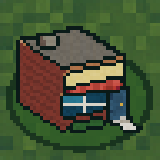
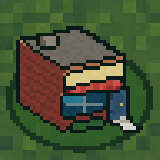
feat(studio): residential building set — three Asset Studio houses
Adds two new house scenes (house2.py, house3.py) alongside the existing
house.py prototype, giving zoned residential tiles three studio-rendered
`rich-pixel-48` variants (res-house-5/6/7.png) in addition to the four
legacy sprites already in rotation.

Also fixes a stylizer bug the second window exposed: `stylize.mjs`'s
window-sash stamp used one bounding box across every window-role cell in
the scene, so a building with two separate windows (house3) got a single
cross straddling both instead of one per window. The sash is now computed
per connected component, inset from each pane's own edges, and blended
toward the glass colour instead of a stark contrasting hue so it reads as
a muntin bar rather than a flag graphic.

Changed region(s): [[0.375, 0.5938, 0.6562, 0.7188]]

diff --git a/app/src/rendering/tileAtlas.ts b/app/src/rendering/tileAtlas.ts
@@ -106,7 +106,11 @@ const residentialHouseTexturePaths = [
   assetPath('assets/tiles/buildings/res-house-1.png'),
   assetPath('assets/tiles/buildings/res-house-2.png'),
   assetPath('assets/tiles/buildings/res-house-3.png'),
-  assetPath('assets/tiles/buildings/res-house-4.png')
+  assetPath('assets/tiles/buildings/res-house-4.png'),
+  // Asset Studio (rich-pixel-48) houses — studio/scenes/house.py, house2.py, house3.py.
+  assetPath('assets/tiles/buildings/res-house-5.png'),
+  assetPath('assets/tiles/buildings/res-house-6.png'),
+  assetPath('assets/tiles/buildings/res-house-7.png')
 ];
 
 const commercialBuildingTexturePaths = [

diff --git a/studio/scenes/house3.py b/studio/scenes/house3.py
@@ -1,0 +1,101 @@
+# Scene: narrow two-storey colonial — third residential variant. Taller and
+# narrower than house.py/house2.py, with a stacked window-over-window front
+# (reads as two storeys) instead of a single gable window.
+#
+# (c) Copyright 2026 Liminal HQ, Scott Morris
+# SPDX-License-Identifier: MIT
+
+import bpy
+
+from studiolib import box, face_box
+
+WALL_W, WALL_D, WALL_H = 1.7, 1.5, 1.35
+ROOF_H = 0.95
+ROOF_OVERHANG_EAVE = 0.075
+ROOF_OVERHANG_RAKE = 0.14
+WIN_W, WIN_H = 0.36, 0.38
+DOOR_W, DOOR_H = 0.38, 0.6
+CHIM_SIZE, CHIM_H = 0.24, 0.85
+
+ROTATION_DEG = 75
+FOCUS_Z = (WALL_H + ROOF_H) * 0.46
+
+
+def build(mats):
+    # Wall box.
+    box(mats, 'wall', (0, 0, WALL_H / 2), (WALL_W, WALL_D, WALL_H))
+
+    # Gable roof volume: two slope quads (roof) + two gable-end triangles
+    # (wall), one mesh, two material slots.
+    rx = WALL_W / 2 + ROOF_OVERHANG_RAKE
+    half_depth = WALL_D / 2
+    pitch = ROOF_H / half_depth
+    ry = half_depth + ROOF_OVERHANG_EAVE
+    eave_z = WALL_H - pitch * ROOF_OVERHANG_EAVE
+    ridge_z = WALL_H + ROOF_H
+
+    verts = [
+        (-rx, -ry, eave_z), (rx, -ry, eave_z),
+        (rx, ry, eave_z), (-rx, ry, eave_z),
+        (-rx, 0, ridge_z), (rx, 0, ridge_z),
+        (-WALL_W / 2, -WALL_D / 2, WALL_H), (-WALL_W / 2, WALL_D / 2, WALL_H),
+        (WALL_W / 2, -WALL_D / 2, WALL_H), (WALL_W / 2, WALL_D / 2, WALL_H),
+        (-WALL_W / 2, 0, ridge_z), (WALL_W / 2, 0, ridge_z),
+    ]
+    faces = [
+        (0, 1, 5, 4),    # -Y slope
+        (2, 3, 4, 5),    # +Y slope
+        (6, 7, 10),      # -X gable cap
+        (9, 8, 11),      # +X gable cap
+    ]
+    roof_mesh = bpy.data.meshes.new('roof_mesh')
+    roof_mesh.from_pydata(verts, [], faces)
+    roof_mesh.update()
+    roof_obj = bpy.data.objects.new('roof', roof_mesh)
+    bpy.context.collection.objects.link(roof_obj)
+    roof_obj.data.materials.append(mats['roof'])
+    roof_obj.data.materials.append(mats['wall'])
+    for poly in roof_obj.data.polygons:
+        poly.material_index = 0 if len(poly.vertices) == 4 else 1
+
+    # Chimney centred on the ridge, tall — narrow massing reads better with a
+    # centred stack than an offset one.
+    chim_x, chim_y = 0.0, 0.0
+    box(mats, 'chimney', (chim_x, chim_y, ridge_z + CHIM_H / 2 - 0.08),
+        (CHIM_SIZE, CHIM_SIZE, CHIM_H))
+
+    fx = WALL_W / 2
+
+    # Upper-storey window in the gable end.
+    win_z_hi = WALL_H + 0.14
+    face_box(mats, 'trim', fx, 0, win_z_hi, WIN_W + 0.14, WIN_H + 0.14, 0.02, 0.04)
+    face_box(mats, 'window', fx, 0, win_z_hi, WIN_W, WIN_H, 0.05)
+    face_box(mats, 'mullion', fx, 0, win_z_hi, WIN_W, 0.05, 0.065)
+    face_box(mats, 'mullion', fx, 0, win_z_hi, 0.05, WIN_H, 0.065)
+
+    # Ground-storey window beside the door.
+    win_z_lo = WALL_H * 0.42
+    win_y_lo = -0.42
+    face_box(mats, 'trim', fx, win_y_lo, win_z_lo, WIN_W + 0.14, WIN_H + 0.14, 0.02, 0.04)
+    face_box(mats, 'window', fx, win_y_lo, win_z_lo, WIN_W, WIN_H, 0.05)
+    face_box(mats, 'mullion', fx, win_y_lo, win_z_lo, WIN_W, 0.05, 0.065)
+    face_box(mats, 'mullion', fx, win_y_lo, win_z_lo, 0.05, WIN_H, 0.065)
+
+    door_y = 0.35
+    face_box(mats, 'trim', fx, door_y, DOOR_H / 2 + 0.04, DOOR_W + 0.16, DOOR_H + 0.08, 0.02, 0.04)
+    face_box(mats, 'door', fx, door_y, DOOR_H / 2, DOOR_W, DOOR_H, 0.05)
+    face_box(mats, 'knob', fx, door_y - DOOR_W / 2 + 0.06, DOOR_H * 0.5, 0.06, 0.06, 0.065)
+
+    # Stone step under the door.
+    box(mats, 'step', (fx + 0.14, door_y, 0.035), (0.22, DOOR_W + 0.14, 0.07))
+
+    # Bush at the wall junction corner.
+    bpy.ops.mesh.primitive_ico_sphere_add(
+        subdivisions=2, radius=0.3, location=(fx + 0.16, -WALL_D / 2 - 0.05, 0.19))
+    bush = bpy.context.object
+    bush.scale = (1.0, 1.0, 0.8)
+    bush.data.materials.append(mats['bush'])
+
+    # Walkway from the door.
+    walkway_len = 0.7
+    box(mats, 'walkway', (fx + walkway_len / 2, door_y, 0.008), (walkway_len, DOOR_W, 0.016))

diff --git a/studio/scenes/house2.py b/studio/scenes/house2.py
@@ -1,0 +1,96 @@
+# Scene: wide single-storey bungalow — second residential variant, alongside
+# house.py. Lower, wider massing with a shallower roof pitch and a single
+# large picture window (contrast against house.py's steep gable + small
+# upper window).
+#
+# (c) Copyright 2026 Liminal HQ, Scott Morris
+# SPDX-License-Identifier: MIT
+
+import bpy
+
+from studiolib import box, face_box
+
+WALL_W, WALL_D, WALL_H = 2.2, 1.7, 0.85
+ROOF_H = 0.85
+ROOF_OVERHANG_EAVE = 0.075
+ROOF_OVERHANG_RAKE = 0.15
+WIN_W, WIN_H = 0.62, 0.42
+DOOR_W, DOOR_H = 0.4, 0.62
+CHIM_SIZE, CHIM_H = 0.22, 0.62
+
+ROTATION_DEG = 75
+FOCUS_Z = (WALL_H + ROOF_H) * 0.42
+
+
+def build(mats):
+    # Wall box.
+    box(mats, 'wall', (0, 0, WALL_H / 2), (WALL_W, WALL_D, WALL_H))
+
+    # Gable roof volume: two slope quads (roof) + two gable-end triangles
+    # (wall), one mesh, two material slots.
+    rx = WALL_W / 2 + ROOF_OVERHANG_RAKE
+    half_depth = WALL_D / 2
+    pitch = ROOF_H / half_depth
+    ry = half_depth + ROOF_OVERHANG_EAVE
+    eave_z = WALL_H - pitch * ROOF_OVERHANG_EAVE
+    ridge_z = WALL_H + ROOF_H
+
+    verts = [
+        (-rx, -ry, eave_z), (rx, -ry, eave_z),
+        (rx, ry, eave_z), (-rx, ry, eave_z),
+        (-rx, 0, ridge_z), (rx, 0, ridge_z),
+        (-WALL_W / 2, -WALL_D / 2, WALL_H), (-WALL_W / 2, WALL_D / 2, WALL_H),
+        (WALL_W / 2, -WALL_D / 2, WALL_H), (WALL_W / 2, WALL_D / 2, WALL_H),
+        (-WALL_W / 2, 0, ridge_z), (WALL_W / 2, 0, ridge_z),
+    ]
+    faces = [
+        (0, 1, 5, 4),    # -Y slope
+        (2, 3, 4, 5),    # +Y slope
+        (6, 7, 10),      # -X gable cap
+        (9, 8, 11),      # +X gable cap
+    ]
+    roof_mesh = bpy.data.meshes.new('roof_mesh')
+    roof_mesh.from_pydata(verts, [], faces)
+    roof_mesh.update()
+    roof_obj = bpy.data.objects.new('roof', roof_mesh)
+    bpy.context.collection.objects.link(roof_obj)
+    roof_obj.data.materials.append(mats['roof'])
+    roof_obj.data.materials.append(mats['wall'])
+    for poly in roof_obj.data.polygons:
+        poly.material_index = 0 if len(poly.vertices) == 4 else 1
+
+    # Chimney on the +Y slope (mirrored from house.py's -Y placement so the
+    # silhouette reads differently from the far side too).
+    chim_x, chim_y = -rx * 0.4, ry * 0.5
+    slope_t = (chim_y - ry) / (0 - ry)
+    chim_base_z = eave_z + slope_t * (ridge_z - eave_z)
+    box(mats, 'chimney', (chim_x, chim_y, chim_base_z + CHIM_H / 2 - 0.05),
+        (CHIM_SIZE, CHIM_SIZE, CHIM_H))
+
+    # Single large picture window on the gable end, low and wide (bungalow
+    # massing reads through a squat window rather than a tall one).
+    fx = WALL_W / 2
+    win_z = WALL_H * 0.55
+    win_y = -0.4
+    face_box(mats, 'trim', fx, win_y, win_z, WIN_W + 0.16, WIN_H + 0.16, 0.02, 0.04)
+    face_box(mats, 'window', fx, win_y, win_z, WIN_W, WIN_H, 0.05)
+    face_box(mats, 'mullion', fx, win_y, win_z, WIN_W, 0.05, 0.065)
+
+    door_y = 0.5
+    face_box(mats, 'trim', fx, door_y, DOOR_H / 2 + 0.04, DOOR_W + 0.16, DOOR_H + 0.08, 0.02, 0.04)
+    face_box(mats, 'door', fx, door_y, DOOR_H / 2, DOOR_W, DOOR_H, 0.05)
+    face_box(mats, 'knob', fx, door_y - DOOR_W / 2 + 0.06, DOOR_H * 0.45, 0.06, 0.06, 0.065)
+
+    # Stone step under the door.
+    box(mats, 'step', (fx + 0.14, door_y, 0.035), (0.22, DOOR_W + 0.14, 0.07))
+
+    # Bush at the wall junction corner, opposite the window.
+    bpy.ops.mesh.primitive_ico_sphere_add(
+        subdivisions=2, radius=0.34, location=(fx + 0.16, WALL_D / 2 + 0.05, 0.2))
+    bush = bpy.context.object
+    bush.scale = (1.0, 1.0, 0.8)
+    bush.data.materials.append(mats['bush'])
+
+    # Walkway from the door.
+    walkway_len = 0.75
+    box(mats, 'walkway', (fx + walkway_len / 2, door_y, 0.008), (walkway_len, DOOR_W, 0.016))
